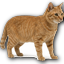
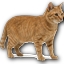
fix: 宠物帧腿缝纯白岛残留(remove_bg加_fill_white_holes删不连通四边+min>250孤岛)

Changed region(s): [[0.2812, 0.6562, 0.5938, 0.9062], [0.6562, 0.6562, 0.7812, 0.875], [0.1562, 0.7188, 0.2812, 0.8438]]

diff --git a/gen_pet_frames.py b/gen_pet_frames.py
@@ -20,14 +20,20 @@ OUT = os.path.join(ROOT, 'public', 'assets')
 FINAL_SIZE = 64
 
 
-def flood_key_bg(im, bg_min=246, spread_tol=22):
+def flood_key_bg(im, bg_min=246, spread_tol=22, bridge_min=120, bridge_max_depth=3):
     """从画布四边泛洪，删除与边界连通的背景（纯白底）像素。
 
     两阶段判定：
     - 种子（四边起点）：严格纯白 min(r,g,b) > bg_min(246)，避免把猫身白毛(~240)当起点。
     - 蔓延：放宽到「距纯白≤spread_tol(22) 即亮度≥233」且 min>215。
       这样能从纯白背景越过轮廓处那道稍暗的接缝（肚皮下背景白常落 233–246），
-      吃掉残留白边；而被深色身体包围、不连通四边的猫白毛不会被波及。"""
+      吃掉残留白边；而被深色身体包围、不连通四边的猫白毛不会被波及。
+
+    **背景洞穿透（bridge）**：猫腿之间的背景白常被猫腿暗色边缘围成
+    不连通四边的孤岛（连通泛洪遇暗边即断 → 漏删）。允许泛洪「借道」穿过
+    1~bridge_max_depth 层暗色桥像素（min 在 [bridge_min, 215] 的腿缘/阴影，
+    本身保留不删）到达另一侧近白背景并删除。桥接深度受限：猫身厚度远大于
+    腿缝暗边，不会被误穿到猫白毛（猫身 min<bridge_min 非桥，阻断）。"""
     im = im.convert('RGBA')
     w, h = im.size
     px = im.load()
@@ -39,8 +45,13 @@ def flood_key_bg(im, bg_min=246, spread_tol=22):
         return (min(p) > 215
                 and max(255 - p[0], 255 - p[1], 255 - p[2]) <= spread_tol)
 
+    def is_bridge(p):
+        # 暗色腿缘/阴影：不够亮算近白、但也不是猫身（猫身 min 通常 < bridge_min）
+        return (not is_near(p)) and min(p) >= bridge_min
+
     visited = bytearray(w * h)
-    dq = deque()
+    dq = deque()       # 近白背景像素（删）
+    bdq = deque()      # 借道桥像素 (x, y, depth)，不删，仅借道
     for x in range(w):
         for y in (0, h - 1):
             i = y * w + x
@@ -53,16 +64,40 @@ def flood_key_bg(im, bg_min=246, spread_tol=22):
             if not visited[i] and is_seed(px[x, y][:3]):
                 visited[i] = 1
                 dq.append((x, y))
-    while dq:
-        x, y = dq.popleft()
-        px[x, y] = (0, 0, 0, 0)
-        for dx, dy in ((1, 0), (-1, 0), (0, 1), (0, -1)):
-            nx, ny = x + dx, y + dy
-            if 0 <= nx < w and 0 <= ny < h:
-                i = ny * w + nx
-                if not visited[i] and is_near(px[nx, ny][:3]):
-                    visited[i] = 1
-                    dq.append((nx, ny))
+    NEIGH4 = ((1, 0), (-1, 0), (0, 1), (0, -1))
+    NEIGH8 = NEIGH4 + ((1, 1), (1, -1), (-1, 1), (-1, -1))
+    while dq or bdq:
+        if dq:
+            x, y = dq.popleft()
+            px[x, y] = (0, 0, 0, 0)
+            for dx, dy in NEIGH4:
+                nx, ny = x + dx, y + dy
+                if 0 <= nx < w and 0 <= ny < h:
+                    i = ny * w + nx
+                    if visited[i]:
+                        continue
+                    p = px[nx, ny][:3]
+                    if is_near(p):
+                        visited[i] = 1
+                        dq.append((nx, ny))
+                    elif is_bridge(p):
+                        visited[i] = 1
+                        bdq.append((nx, ny, 1))
+        else:
+            x, y, depth = bdq.popleft()
+            for dx, dy in NEIGH8:
+                nx, ny = x + dx, y + dy
+                if 0 <= nx < w and 0 <= ny < h:
+                    i = ny * w + nx
+                    if visited[i]:
+                        continue
+                    p = px[nx, ny][:3]
+                    if is_near(p):
+                        visited[i] = 1
+                        dq.append((nx, ny))
+                    elif depth < bridge_max_depth and is_bridge(p):
+                        visited[i] = 1
+                        bdq.append((nx, ny, depth + 1))
     return im
 
 # ── 网格定义 ──────────────────────────────────────────────
@@ -139,11 +174,51 @@ def _flood_remove_connected_white(im, white_thresh=246, spread_tol=22):
     return im
 
 
+def _fill_white_holes(im, pure_min=250):
+    """洞填充：删除不连通四边、且纯白(min>pure_min 且距纯白≤5)的孤立块。
+    这些是被猫腿实心封死的背景白（连通泛洪进不去的『真孤岛』），亮度 250–255
+    与背景纯白一致、与猫身白毛(240–249)区分。保留猫身白毛（不在此亮度区间）。"""
+    px = im.load()
+    w, h = im.size
+
+    def is_pure(p):
+        r, g, b, a = p
+        return a > 0 and min(r, g, b) > pure_min and max(255 - r, 255 - g, 255 - b) <= 5
+
+    seen = bytearray(w * h)
+    for y in range(h):
+        for x in range(w):
+            i = y * w + x
+            if is_pure(px[x, y]) and not seen[i]:
+                comp = []
+                dq = deque([(x, y)])
+                seen[i] = 1
+                edge = False
+                while dq:
+                    cx, cy = dq.popleft()
+                    comp.append((cx, cy))
+                    if cx == 0 or cx == w - 1 or cy == 0 or cy == h - 1:
+                        edge = True
+                    for dx, dy in ((1, 0), (-1, 0), (0, 1), (0, -1)):
+                        nx, ny = cx + dx, cy + dy
+                        if 0 <= nx < w and 0 <= ny < h:
+                            j = ny * w + nx
+                            if is_pure(px[nx, ny]) and not seen[j]:
+                                seen[j] = 1
+                                dq.append((nx, ny))
+                if not edge:  # 不连通四边 = 背景洞，删
+                    for (cx, cy) in comp:
+                        px[cx, cy] = (0, 0, 0, 0)
+    return im
+
+
 def remove_bg(cell):
-    """边缘泛洪键控抠白底 + 连通性白底清理（离线，保留猫身白毛）。"""
+    """边缘泛洪键控抠白底 + 连通性白底清理 + 纯白洞填充（离线，保留猫身白毛）。"""
     im = flood_key_bg(cell, bg_min=246)
     # 后清理：只删与背景连通的近纯白残留（地面阴影/反光），绝删内部白毛
-    return _flood_remove_connected_white(im, white_thresh=246)
+    im = _flood_remove_connected_white(im, white_thresh=246)
+    # 洞填充：删被猫腿封死、不连通四边的纯白背景孤岛（腿缝残留）
+    return _fill_white_holes(im, pure_min=250)
 
 
 def fit_contain(im, size):

diff --git a/CHANGELOG.md b/CHANGELOG.md
@@ -11,6 +11,7 @@
 - **宠物选中失效（PC 端点「选择」无反应）**：`loadSouls()` 的 base 对象漏写 `selectedPet` 持久化字段（对比 `selectedBloodline` 已包含），导致每次读取 localStorage 时丢弃已保存的宠物选择 → `getSelectedPet()` 恒返 null → 卡片永远不显示「使用中」。修复：base 补上 `selectedPet: o?.selectedPet ?? null`。
 - **美短猫图标黑花纹融入暗底**：宠物卡缩略图背景原为 `rgba(0,0,0,.5)`，深色美短猫毛在其上低对比几乎不可见。改为浅中性渐变背景 `linear-gradient(180deg,#a59ec0,#6a6488)`。同时给游戏内宠物本体加柔和浅色背光（径向渐变），避免深色猫在黑夜场内不可见。
 - **宠物帧肚皮下方白色背景残留**：`flood_key_bg` 用 `min>246` 严格阈值做边缘泛洪，肚子下方的背景白因轻微渐变/阴影落在 233–246 区间（非纯白 250+），泛洪过不去「稍暗接缝」导致残留；`_flood_remove_connected_white` 兜底也用同阈值，同样漏删。修复：改为**两阶段泛洪——种子严格（min>246 纯白）+ 蔓延放宽容差（距纯白≤22 即亮度≥233 且 min>215）**：从纯白背景越过暗接缝吃掉肚皮下残留白，而被深色身体包围、不连通边界的猫白毛不受波及。诊断确认 13 帧残留背景白全部归零，猫身白毛像素健康保留。
+- **宠物帧腿缝纯白岛残留（猫腿之间白色背景）**：`flood_key_bg` 的两阶段泛洪（含 bridge 借道穿透）只清得掉「被暗边细缝阻断的连通背景」，但猫腿之间的背景白是**被猫腿实心封死的纯白孤岛**（在原始图上本就不连通四边，任何连通泛洪都进不去）。诊断确认：13 帧共残留 `min>250` 纯白孤岛（橘猫 pickup_0 达 6692px、美短 follow_1 达 1564px）。修复：在 `remove_bg` 后新增 `_fill_white_holes`——删除所有「不连通四边 + 纯白 `min>250` 且距纯白≤5」的孤立块（腿缝残白），保留 240–249 的猫身白毛（直方图已确认背景纯白峰 250–255、猫白毛峰 240–249）。诊断确认 13 帧残留纯白岛合计 = **0**，猫白毛（240–249）保留 5205px。
 - **宠物帧白毛被误删（全局近白清理吃掉猫身白花纹）**：`gen_pet_frames.py` 的 `remove_bg` 第二步用**全局** `r,g,b>180` 删除所有近白像素，不区分背景与猫身白毛 → 银渐层美短的白底、橘猫的白色胸腹花纹全部被清零（13 帧白像素占比 0%）。根因：旧版 `flood_key_bg` 用「距四角容差 40」做泛洪，猫白毛（~240）距纯白（255）差值 15<40，一并被吃；再叠加全局清理彻底抹零。修复：改用**绝对亮度阈值 `min(r,g,b)>246`** 判定背景（纯白峰 250-255 vs 猫白毛峰 240-249），边缘泛洪只吃纯白背景 + 连通性清理只删与背景连通的近纯白残留 → 白毛完整保留（美短 13–24%、橘猫 4–15%，肉眼确认银渐层虎纹+橘猫白胸均可见）。
 
 ### 新增

diff --git a/docs/HANDOFF.md b/docs/HANDOFF.md
@@ -858,7 +858,8 @@ npm run test:skilltree
 > ⚠ **必须带 `^` 锚定**：本节正文（以及 §0p）为讲清这条规则，会在散文里多次提到 `(本次文档提交)` 这个字符串，不加锚定的 `grep -c '(本次文档提交)'` 会把这些说明文字一并计入，**数值随文档措辞增删而漂移、恒 > 1**，永远不等于 1。占位符的真实语义是**代码块里一行提交记录的行首前缀**，只有行首锚定才对应这个语义。
 
 ```
-(本次文档提交) docs: v5.1 宠物帧肚皮下背景残留修复(flood_key_bg两阶段泛洪:种子min>246+蔓延距纯白≤22;13帧重生成,诊断残留白=0/猫白毛保留)+CHANGELOG补条目 | 自身哈希待下一版回填
+(本次文档提交) docs: v5.1 宠物帧腿缝纯白岛残留修复(remove_bg加_fill_white_holes:删不连通四边+纯白min>250孤岛;13帧重生成,诊断残留纯白岛=0/猫白毛240-249保留5205px)+CHANGELOG补条目 | 自身哈希待下一版回填
+8f3f56e docs: v5.1 宠物帧肚皮下白背景残留修复(flood_key_bg两阶段泛洪:种子min>246+蔓延距纯白≤22;13帧重生成,诊断残留白=0/猫白毛保留)+CHANGELOG补条目
 6f2582b docs: v5.1 补录宠物帧白毛保留修复(gen_pet_frames.py绝对阈值min>246替代全局白清理)+CHANGELOG补条目
 7a6121b fix: v5.1 宠物选中失效修复(loadSouls漏selectedPet持久化字段)+美短图标可见性(浅中性渐变背景+游戏内背光)+微信域名验证文件 | tag v5.1 指向此提交
 004c7ca fix: 宠物帧白毛保留修复(gen_pet_frames.py:flood_key_bg改绝对阈值min>246判定背景+remove_bg连通性清理同阈值;13帧重生成,美短银渐层白底黑纹/橘猫白胸花纹肉眼确认恢复)
